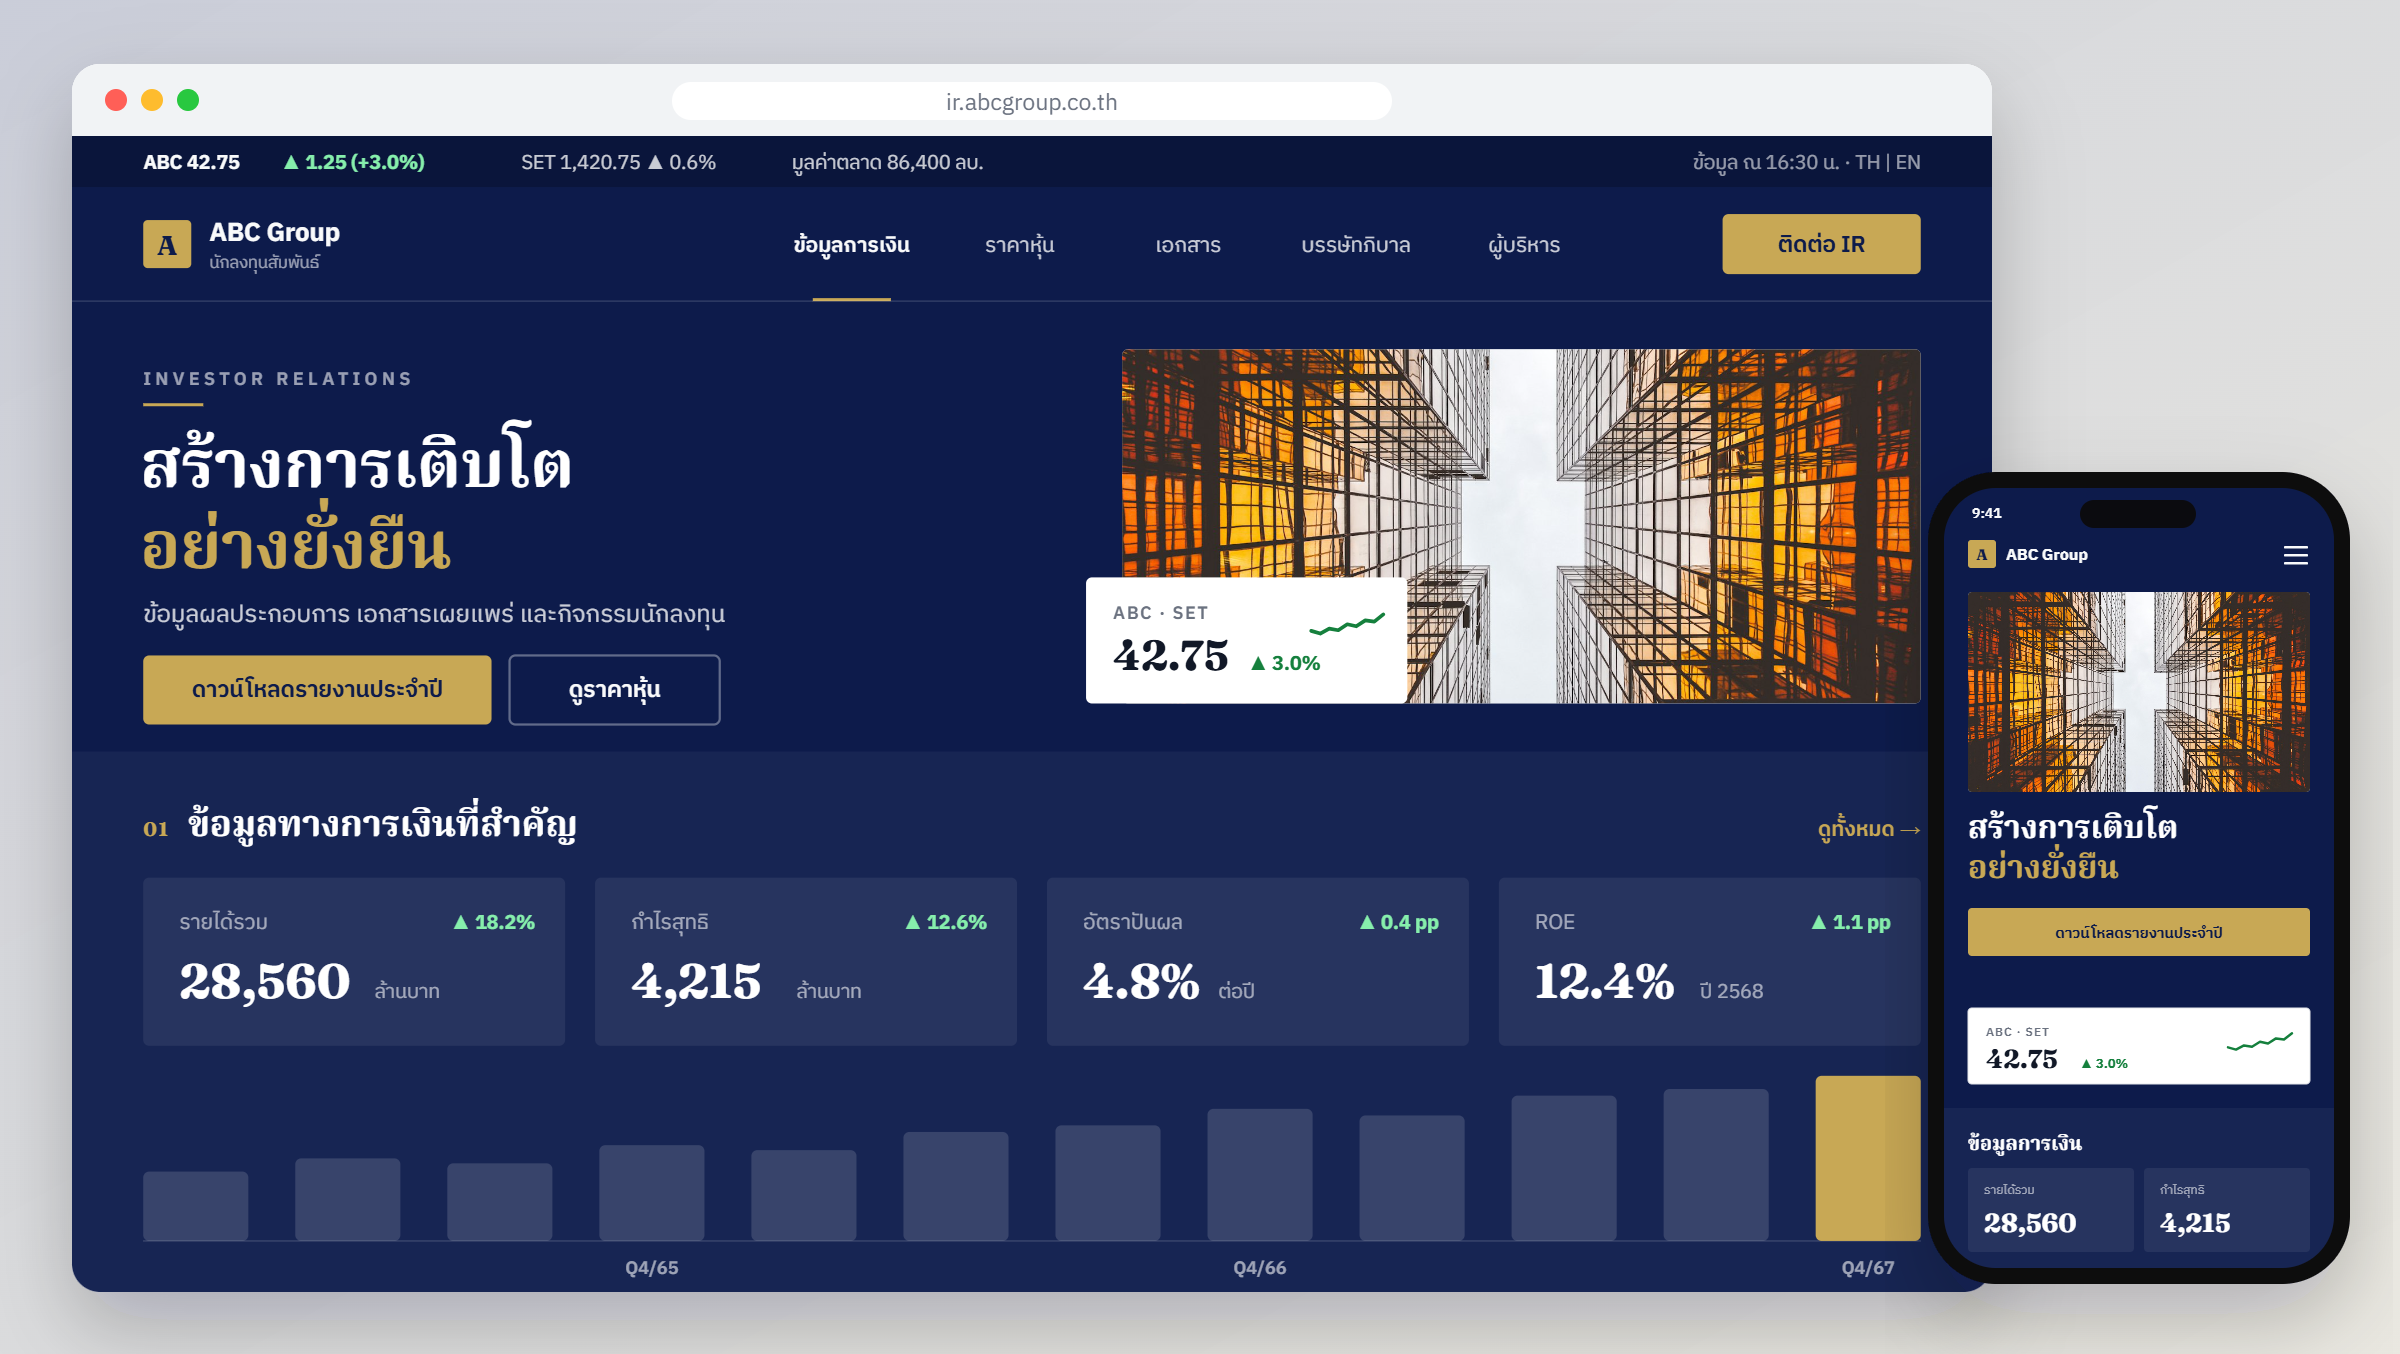
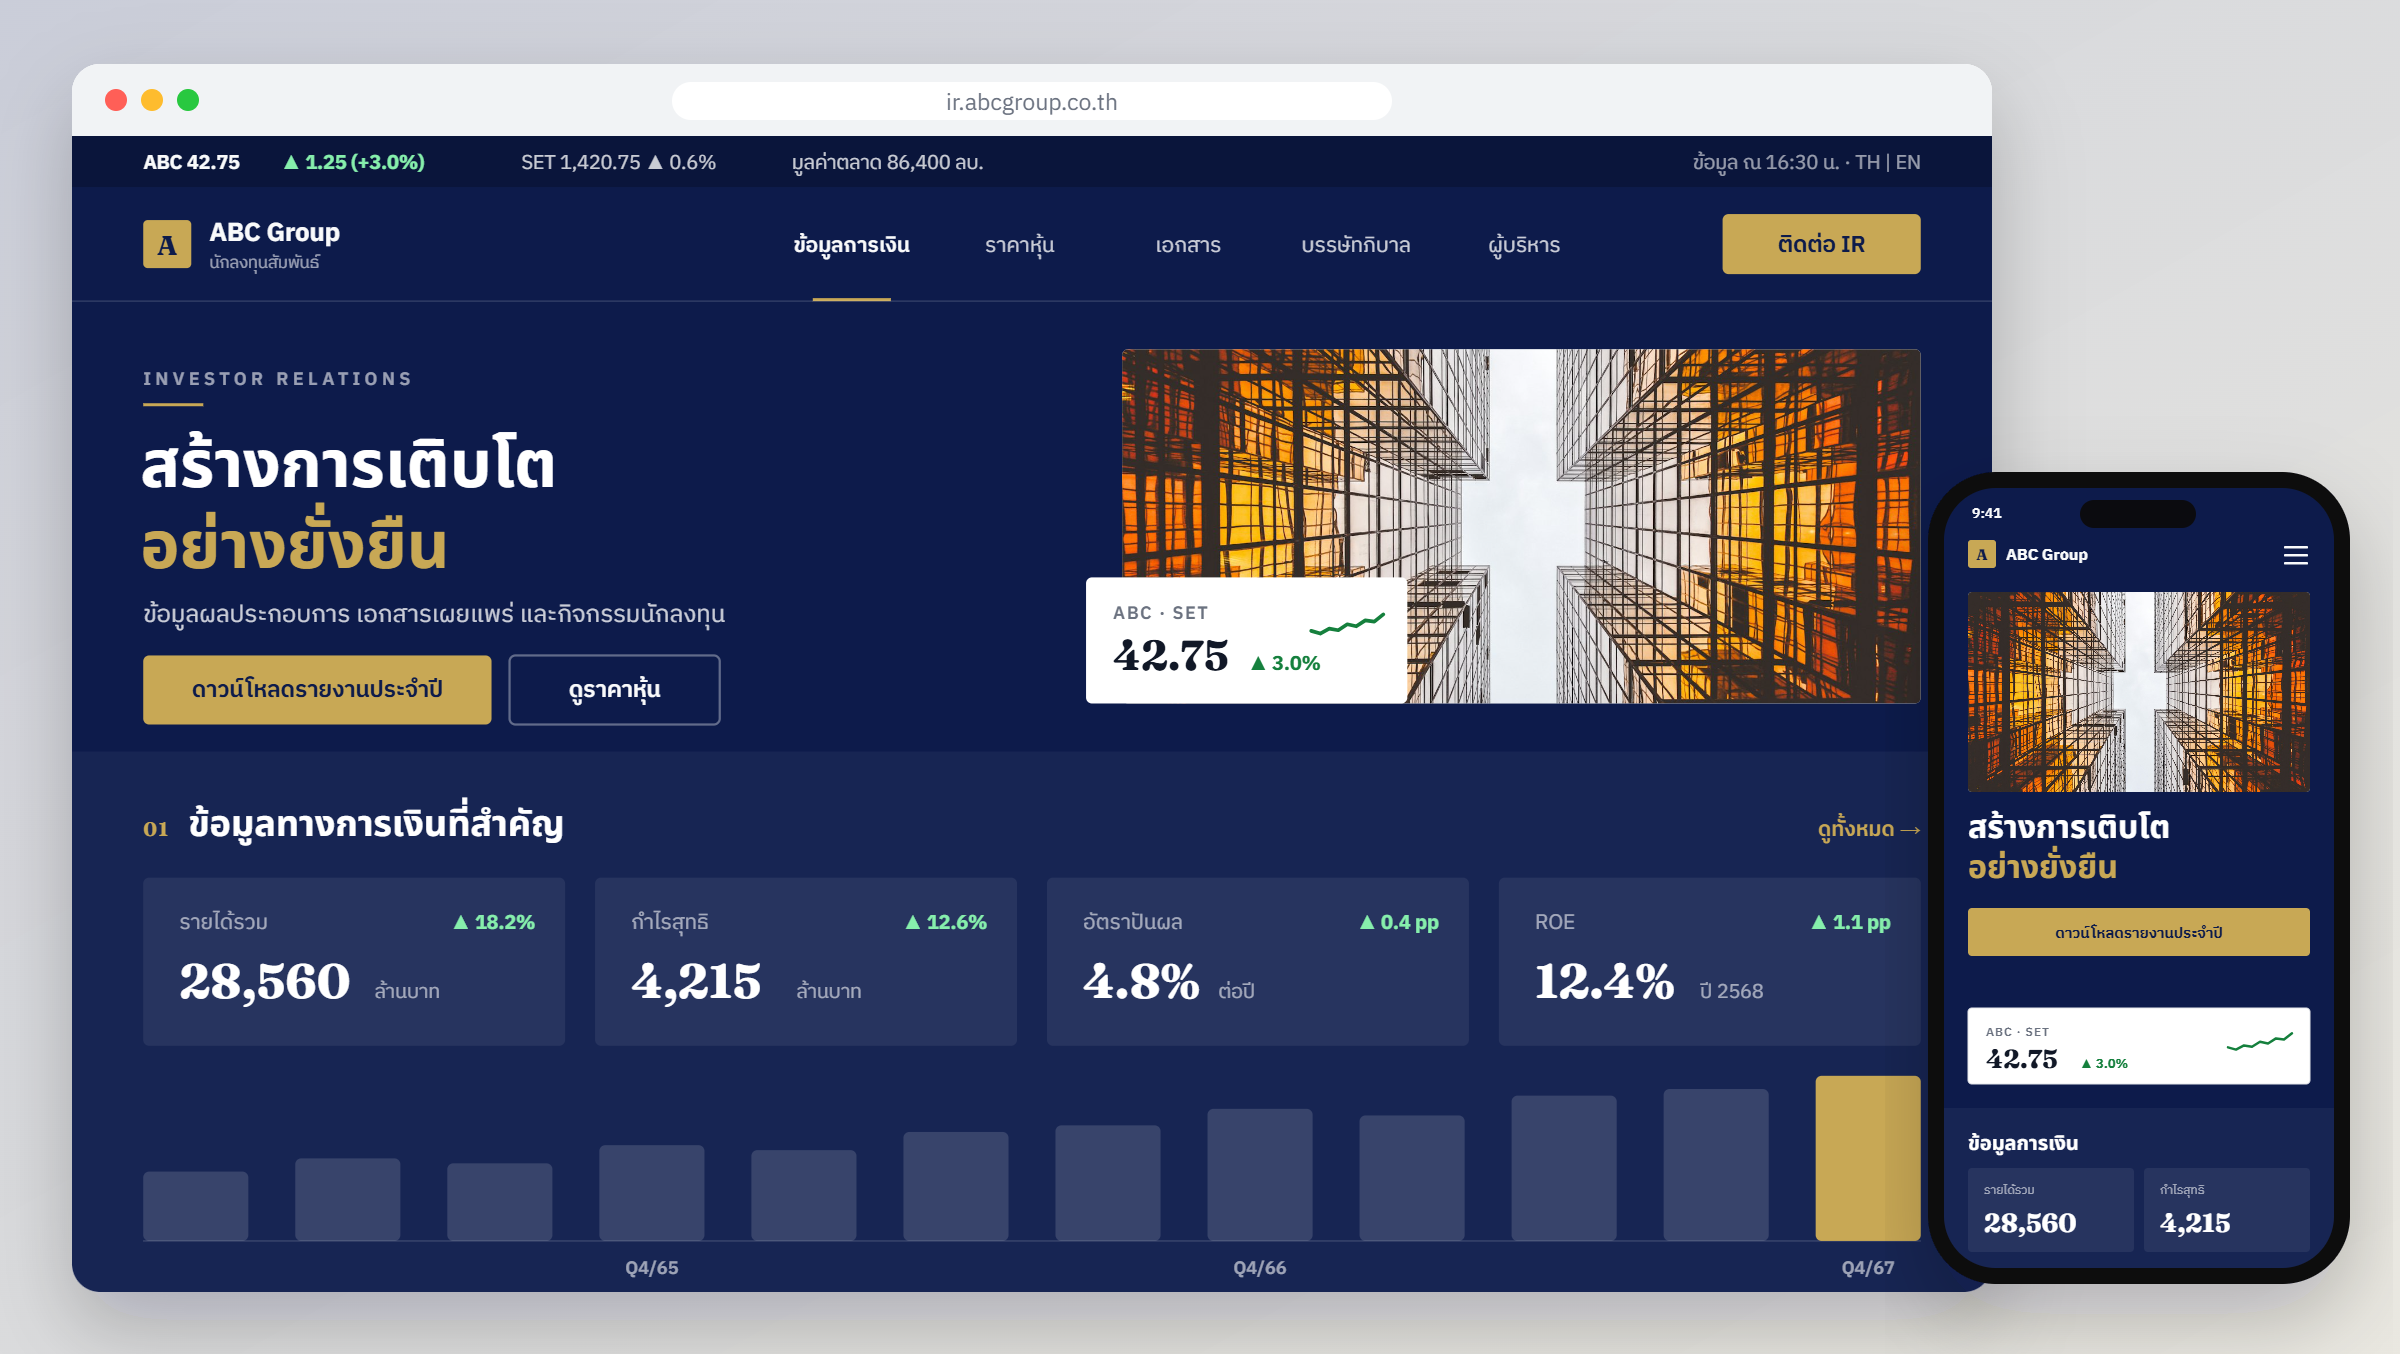
Fonts: loopless Thai only — Noto Sans Thai replaces Noto Serif Thai
Premium Corporate now pairs Fraunces with Noto Sans Thai (loaded as a variable font;
fixed weights broke the Turbopack font loader). Tahoma, a looped face, is dropped
from the font fallbacks. Direction overview PNGs re-exported.

diff --git a/src/app/layout.tsx b/src/app/layout.tsx
@@ -1,5 +1,5 @@
 import type { Metadata } from "next";
-import { Anuphan, Bai_Jamjuree, Fraunces, IBM_Plex_Sans_Thai, Inter, Kanit, Manrope, Noto_Serif_Thai, Sora, Space_Grotesk } from "next/font/google";
+import { Anuphan, Bai_Jamjuree, Fraunces, IBM_Plex_Sans_Thai, Inter, Kanit, Manrope, Noto_Sans_Thai, Sora, Space_Grotesk } from "next/font/google";
 import "./globals.css";
 import { Header } from "@/components/Header";
 import { RealtimeSync } from "@/components/RealtimeSync";
@@ -28,7 +28,7 @@ const spaceGrotesk = Space_Grotesk({ variable: "--font-space-grotesk", subsets: 
 const sora = Sora({ variable: "--font-sora", subsets: ["latin"], preload: false });
 
 // Thai counterparts for each pairing — the Latin heading fonts above have no Thai glyphs.
-const notoSerifThai = Noto_Serif_Thai({ variable: "--font-noto-serif-thai", subsets: ["thai"], weight: ["600", "700"], preload: false });
+const notoSansThai = Noto_Sans_Thai({ variable: "--font-noto-sans-thai", subsets: ["thai"], preload: false });
 const anuphan = Anuphan({ variable: "--font-anuphan", subsets: ["thai"], weight: ["600", "700"], preload: false });
 const baiJamjuree = Bai_Jamjuree({ variable: "--font-bai-jamjuree", subsets: ["thai"], weight: ["600", "700"], preload: false });
 const kanit = Kanit({ variable: "--font-kanit", subsets: ["thai"], weight: ["600", "700"], preload: false });
@@ -42,7 +42,7 @@ export default function RootLayout({
   children,
 }: Readonly<{ children: React.ReactNode }>) {
   return (
-    <html lang="th" className={`${plex.variable} ${inter.variable} ${fraunces.variable} ${manrope.variable} ${spaceGrotesk.variable} ${sora.variable} ${notoSerifThai.variable} ${anuphan.variable} ${baiJamjuree.variable} ${kanit.variable} h-full`}>
+    <html lang="th" className={`${plex.variable} ${inter.variable} ${fraunces.variable} ${manrope.variable} ${spaceGrotesk.variable} ${sora.variable} ${notoSansThai.variable} ${anuphan.variable} ${baiJamjuree.variable} ${kanit.variable} h-full`}>
       <body className="min-h-full flex flex-col bg-ir-bg text-ir-t1">
         <RealtimeSync />
         <Header />

diff --git a/src/lib/fonts.ts b/src/lib/fonts.ts
@@ -1,9 +1,9 @@
 // AI-recommended Google font pairing per direction — heading paired with a neutral body
 // on a contrast axis (serif/geometric heading + humanist body), all free on Google Fonts.
-// `thai` is the Thai heading face matched to each Latin heading's character (serif with
-// serif, geometric with geometric) — the Latin fonts carry no Thai glyphs.
+// `thai` is the Thai heading face matched to each Latin heading's character — always a
+// loopless (ไม่มีหัว) face, by design decision; the Latin fonts carry no Thai glyphs.
 export const FONT_PAIRINGS: Record<string, { heading: string; thai: string; body: string; note: string }> = {
-  "premium-corporate": { heading: "Fraunces", thai: "Noto Serif Thai", body: "Inter", note: "Serif ที่ดูมีระดับ คู่กับ Sans ที่อ่านง่าย" },
+  "premium-corporate": { heading: "Fraunces", thai: "Noto Sans Thai", body: "Inter", note: "Serif ที่ดูมีระดับ คู่กับอักษรไทยไม่มีหัวที่เรียบ เป็นทางการ" },
   "esg-focused":       { heading: "Manrope", thai: "Anuphan", body: "Inter", note: "Humanist sans อบอุ่น เป็นมิตร" },
   "modern-tech":       { heading: "Space Grotesk", thai: "Bai Jamjuree", body: "Inter", note: "Geometric sans ทันสมัย มีเอกลักษณ์" },
   "growth-oriented":   { heading: "Sora", thai: "Kanit", body: "Inter", note: "Grotesk เน้นความชัดของตัวเลข" },
@@ -17,7 +17,7 @@ const FONT_VARS: Record<string, string> = {
   "Space Grotesk": "--font-space-grotesk",
   Sora: "--font-sora",
   Inter: "--font-inter",
-  "Noto Serif Thai": "--font-noto-serif-thai",
+  "Noto Sans Thai": "--font-noto-sans-thai",
   Anuphan: "--font-anuphan",
   "Bai Jamjuree": "--font-bai-jamjuree",
   Kanit: "--font-kanit",

diff --git a/src/app/globals.css b/src/app/globals.css
@@ -67,8 +67,8 @@
   --radius-ir: 0.75rem;            /* default control / card radius */
 
   /* --font-plex is injected by next/font as a CSS variable on <html> */
-  --font-display: var(--font-plex), "IBM Plex Sans Thai", "Leelawadee UI", Tahoma, sans-serif;
-  --font-sans: var(--font-plex), "IBM Plex Sans Thai", "Leelawadee UI", Tahoma, sans-serif;
+  --font-display: var(--font-plex), "IBM Plex Sans Thai", "Leelawadee UI", sans-serif;
+  --font-sans: var(--font-plex), "IBM Plex Sans Thai", "Leelawadee UI", sans-serif;
 }
 
 :root {

diff --git a/src/components/DirectionPreview.tsx b/src/components/DirectionPreview.tsx
@@ -21,7 +21,7 @@ const W = 1200;
 const H = 677;
 const PW = 1280; // page design width inside the browser frame
 const PH = 770;
-const BODY = "var(--font-plex), 'IBM Plex Sans Thai', 'Leelawadee UI', Tahoma, sans-serif";
+const BODY = "var(--font-plex), 'IBM Plex Sans Thai', 'Leelawadee UI', sans-serif";
 
 // Short Thai nav labels for the sections a customer can pick.
 const NAV_LABEL: Record<string, string> = {

diff --git a/src/components/ExploreMock.tsx b/src/components/ExploreMock.tsx
@@ -16,7 +16,7 @@ const W = 1200;
 const H = 677;
 const col = (i: number) => 72 + 90 * i;
 const span = (n: number) => 90 * n - 24;
-const FONT = "var(--font-plex), 'IBM Plex Sans Thai', 'Leelawadee UI', Tahoma, sans-serif";
+const FONT = "var(--font-plex), 'IBM Plex Sans Thai', 'Leelawadee UI', sans-serif";
 
 type Theme = {
   bg: string; surface: string; ink: string; muted: string; line: string;
